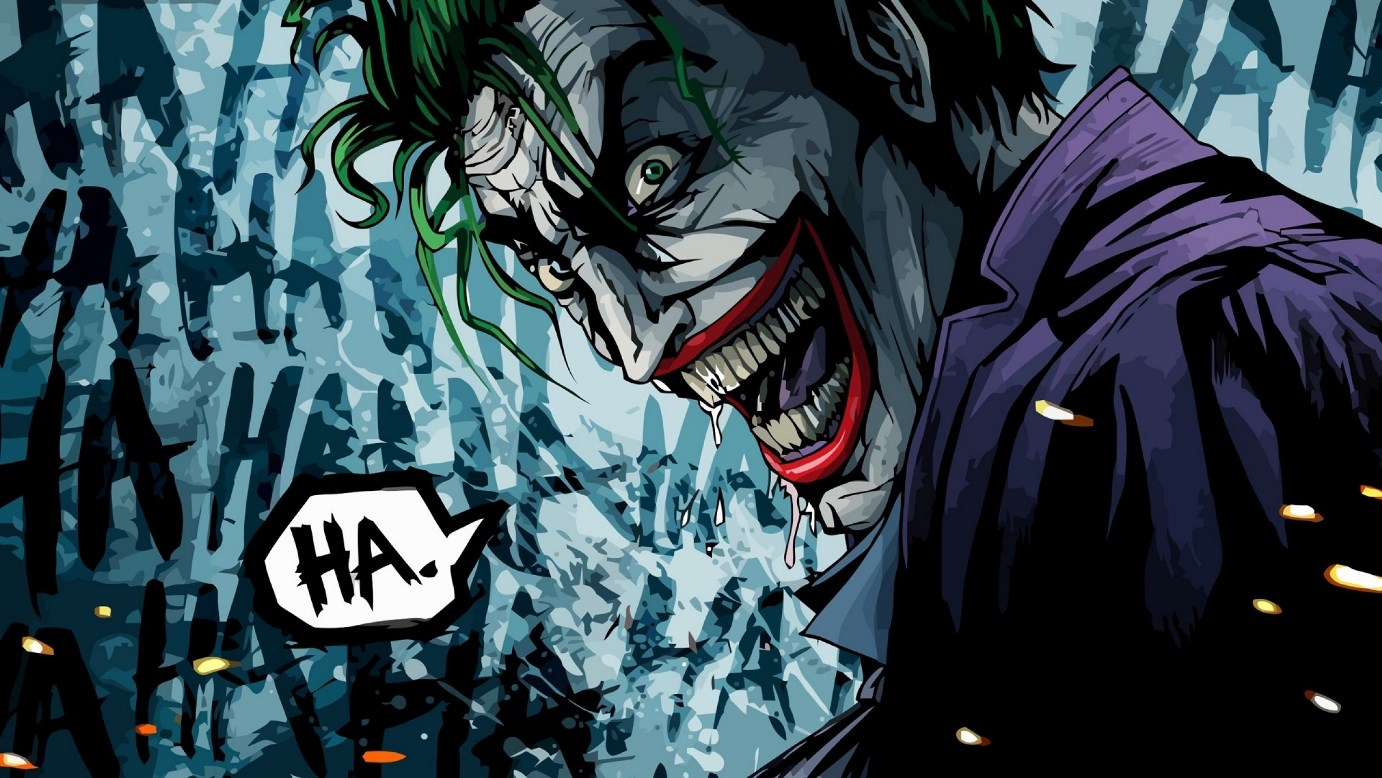
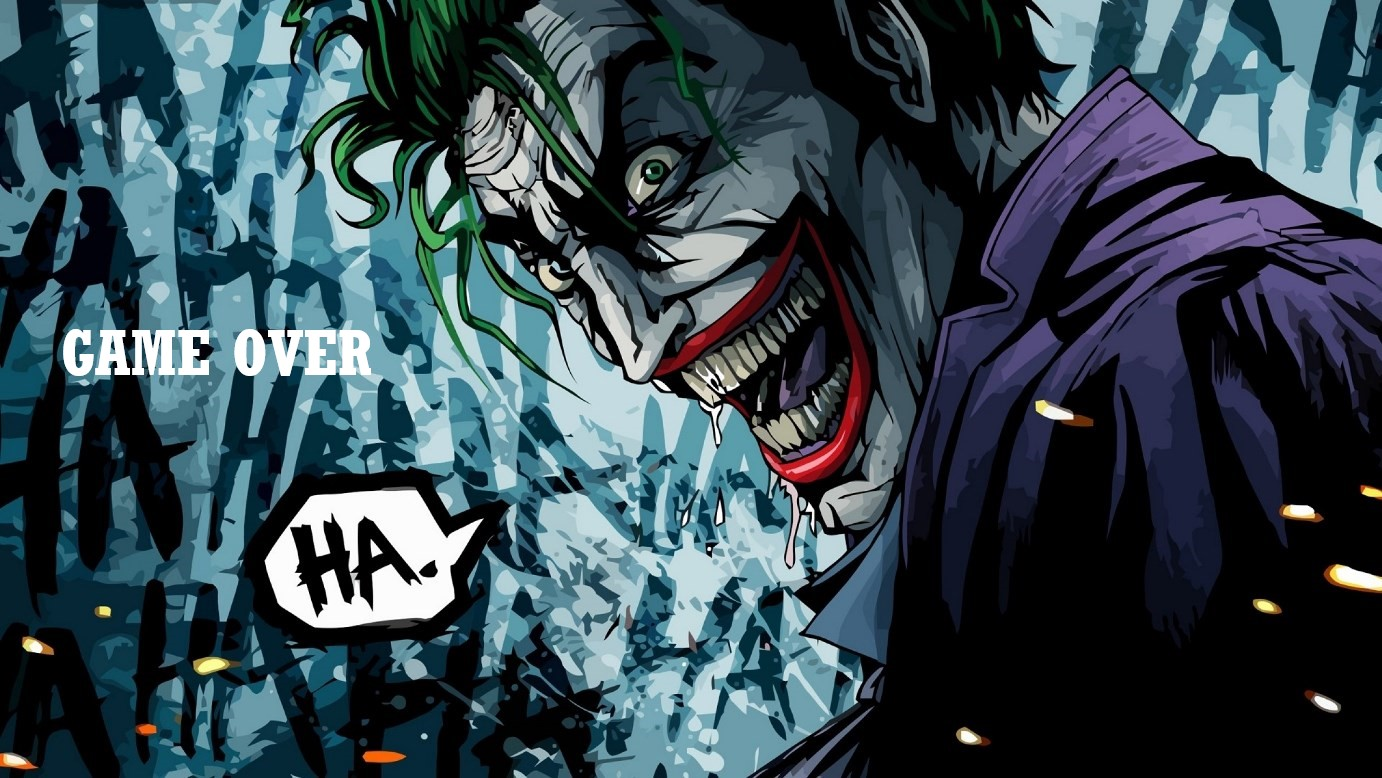
Добавлены победа и поражение

Changed region(s): [[0.0311, 0.401, 0.28, 0.4936]]

diff --git a/src/com/company/game/MyPanel.java b/src/com/company/game/MyPanel.java
@@ -16,19 +16,25 @@ public class MyPanel extends JPanel {
     private static Image explosion;
     private static boolean isExplosion;
 
-    // Картинка окончания игры
+    // Картинка неуспешного окончания игры
     private static Image game_over;
+
+    // Картинка успешного окончания игры
+    private static Image game_success;
 
     // Бомба
     private static Image bomb;
     private static int bomb_left = 200;
     private static int bomb_top = 0;
 
+    // Очки
+    private static int score;
 
     public MyPanel() {
         try {
             background = ImageIO.read(GameWindow.class.getResourceAsStream("background.jpg"));
             game_over = ImageIO.read(GameWindow.class.getResourceAsStream("game-over.jpg"));
+            game_success = ImageIO.read(GameWindow.class.getResourceAsStream("you-win.jpg"));
             bomb = ImageIO.read(GameWindow.class.getResourceAsStream("bomb.jpg"));
             explosion = ImageIO.read(GameWindow.class.getResourceAsStream("explosion.png"));
         } catch (IOException | IllegalArgumentException e) {
@@ -47,30 +53,37 @@ public class MyPanel extends JPanel {
                 if (is_drop){
                     isExplosion = true;
                 }
+                score++;
             }
         });
     }
 
     @Override
     protected void paintComponent(Graphics g){
-        bomb_top += 5; // drop_top = drop_top + 5;
-        g.drawImage(background, 0, 0, null);
-        g.drawImage(bomb, bomb_left, bomb_top, null);
-        if (isExplosion) {
-            g.drawImage(explosion, bomb_left, bomb_top, null);
-        }
+        if (score >= 5){
+            g.drawImage(game_success, 0, 0, null);
+        } else if (bomb_top > 768) {
+            g.drawImage(game_over, 0, 0, null);
+        } else {
+            bomb_top += 5; // drop_top = drop_top + 5;
+            g.drawImage(background, 0, 0, null);
+            g.drawImage(bomb, bomb_left, bomb_top, null);
+            if (isExplosion) {
+                g.drawImage(explosion, bomb_left, bomb_top, null);
+            }
 
-        try {
-            Thread.sleep(20);
-        } catch (InterruptedException e) {
-            e.printStackTrace();
-        }
-        repaint();
+            try {
+                Thread.sleep(20);
+            } catch (InterruptedException e) {
+                e.printStackTrace();
+            }
+            repaint();
 
-        if (isExplosion) {
-            isExplosion = false;
-            bomb_top = -100;
-            bomb_left = (int) (Math.random() * (getWidth() - bomb.getWidth(null)));
+            if (isExplosion) {
+                isExplosion = false;
+                bomb_top = -100;
+                bomb_left = (int) (Math.random() * (getWidth() - bomb.getWidth(null)));
+            }
         }
     }
 }
